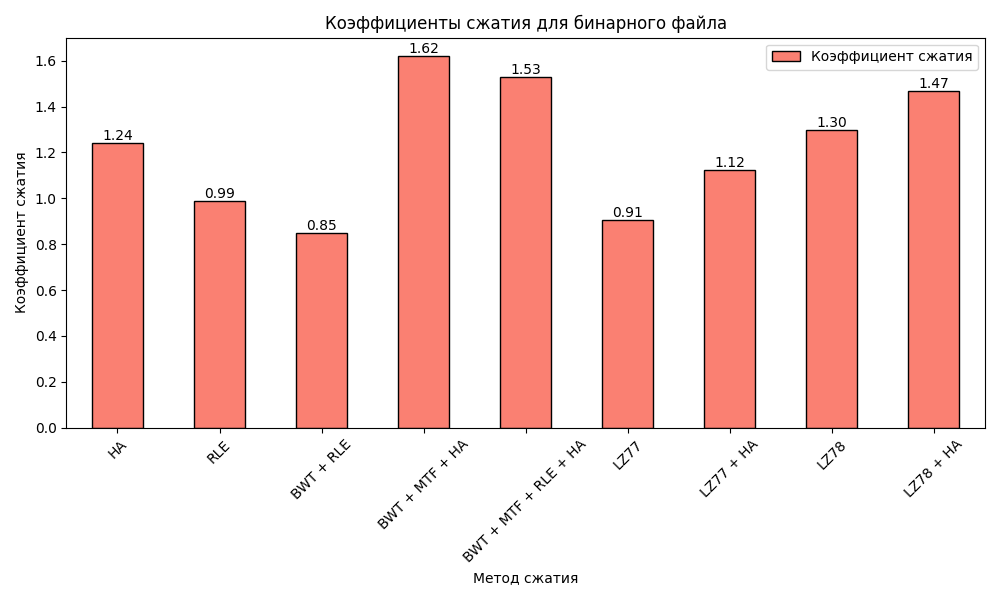
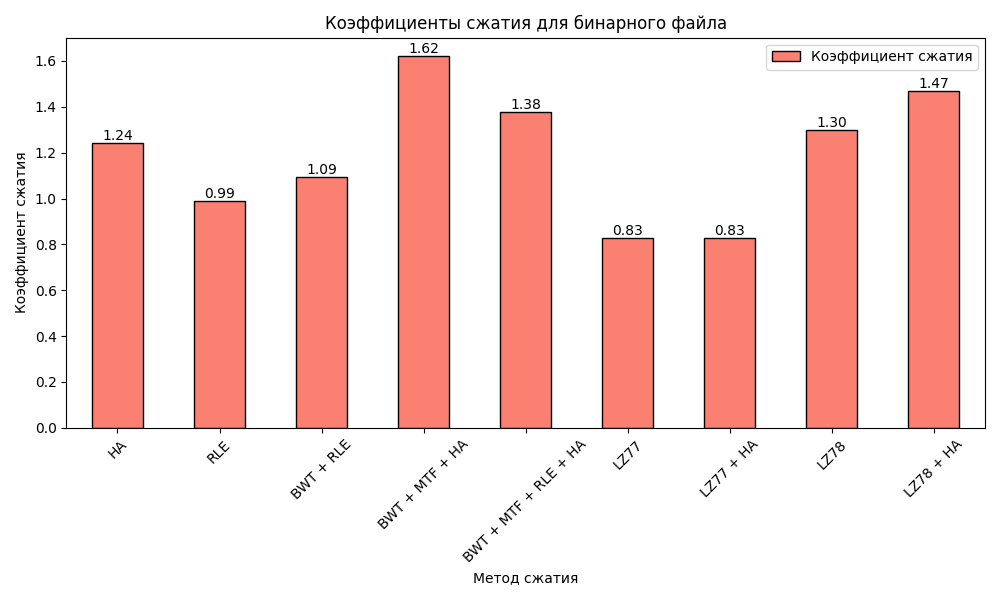
коэффициенты

diff --git a/plotter/plotter_all_koef.py b/plotter/plotter_all_koef.py
@@ -43,9 +43,9 @@ def plot_all():
     plots = [
         {
             "data": {
-                "HA": 1.559, "RLE": 0.924, "BWT + RLE": 0.80,
-                "BWT + MTF + HA": 1.90, "BWT + MTF + RLE + HA": 1.67,
-                "LZ77": 1.256, "LZ77 + HA": 1.273, "LZ78": 1.85, "LZ78 + HA": 2.02
+                "HA": 1.559, "RLE": 0.924, "BWT + RLE": 0.978,
+                "BWT + MTF + HA": 1.897, "BWT + MTF + RLE + HA": 1.452,
+                "LZ77": 1.109, "LZ77 + HA": 1.109, "LZ78": 1.849, "LZ78 + HA": 2.019
             },
             "title": "enwik7",
             "filename": "enwik7_compression.png",
@@ -53,9 +53,9 @@ def plot_all():
         },
         {
             "data": {
-                "HA": 1.958, "RLE": 0.962, "BWT + RLE": 1.10,
-                "BWT + MTF + HA": 2.42, "BWT + MTF + RLE + HA": 2.59,
-                "LZ77": 1.627, "LZ77 + HA": 1.498, "LZ78": 2.25, "LZ78 + HA": 2.38
+                "HA": 1.958, "RLE": 0.962, "BWT + RLE": 1.510,
+                "BWT + MTF + HA": 2.419, "BWT + MTF + RLE + HA": 2.160,
+                "LZ77": 1.462, "LZ77 + HA": 1.462, "LZ78": 2.249, "LZ78 + HA": 2.384
             },
             "title": "русского текста",
             "filename": "russian_text_compression.png",
@@ -63,9 +63,9 @@ def plot_all():
         },
         {
             "data": {
-                "HA": 1.243, "RLE": 0.988, "BWT + RLE": 0.85,
-                "BWT + MTF + HA": 1.62, "BWT + MTF + RLE + HA": 1.53,
-                "LZ77": 0.905, "LZ77 + HA": 1.123, "LZ78": 1.30, "LZ78 + HA": 1.47
+                "HA": 1.243, "RLE": 0.988, "BWT + RLE": 1.093,
+                "BWT + MTF + HA": 1.621, "BWT + MTF + RLE + HA": 1.379,
+                "LZ77": 0.829, "LZ77 + HA": 0.829, "LZ78": 1.297, "LZ78 + HA": 1.471
             },
             "title": "бинарного файла",
             "filename": "binary_file_compression.png",
@@ -73,9 +73,9 @@ def plot_all():
         },
         {
             "data": {
-                "HA": 5.510, "RLE": 96.658, "BWT + RLE": 46.08,
-                "BWT + MTF + HA": 7.71, "BWT + MTF + RLE + HA": 61.41,
-                "LZ77": 25.093, "LZ77 + HA": 48.779, "LZ78": 89.99, "LZ78 + HA": 93.92
+                "HA": 5.510, "RLE": 96.658, "BWT + RLE": 43.329,
+                "BWT + MTF + HA": 7.705, "BWT + MTF + RLE + HA": 62.142,
+                "LZ77": 63.339, "LZ77 + HA": 63.339, "LZ78": 89.989, "LZ78 + HA": 93.916
             },
             "title": "ч/б изображения",
             "filename": "bw_image_compression.png",
@@ -83,9 +83,9 @@ def plot_all():
         },
         {
             "data": {
-                "HA": 3.796, "RLE": 60.992, "BWT + RLE": 27.27,
-                "BWT + MTF + HA": 7.58, "BWT + MTF + RLE + HA": 35.20,
-                "LZ77": 11.616, "LZ77 + HA": 23.076, "LZ78": 35.00, "LZ78 + HA": 33.94
+                "HA": 3.796, "RLE": 60.992, "BWT + RLE": 24.417,
+                "BWT + MTF + HA": 7.580, "BWT + MTF + RLE + HA": 30.302,
+                "LZ77": 60.861, "LZ77 + HA": 60.861, "LZ78": 35.004, "LZ78 + HA": 33.940
             },
             "title": "изображения в оттенках серого",
             "filename": "grayscale_image_compression.png",
@@ -93,9 +93,9 @@ def plot_all():
         },
         {
             "data": {
-                "HA": 3.169, "RLE": 0.949, "BWT + RLE": 31.45,
-                "BWT + MTF + HA": 7.45, "BWT + MTF + RLE + HA": 31.23,
-                "LZ77": 16.244, "LZ77 + HA": 35.316, "LZ78": 58.18, "LZ78 + HA": 59.42
+                "HA": 3.169, "RLE": 0.949, "BWT + RLE": 29.208,
+                "BWT + MTF + HA": 7.447, "BWT + MTF + RLE + HA": 35.776,
+                "LZ77": 58.790, "LZ77 + HA": 58.790, "LZ78": 58.175, "LZ78 + HA": 59.416
             },
             "title": "цветного изображения",
             "filename": "color_image_compression.png",
